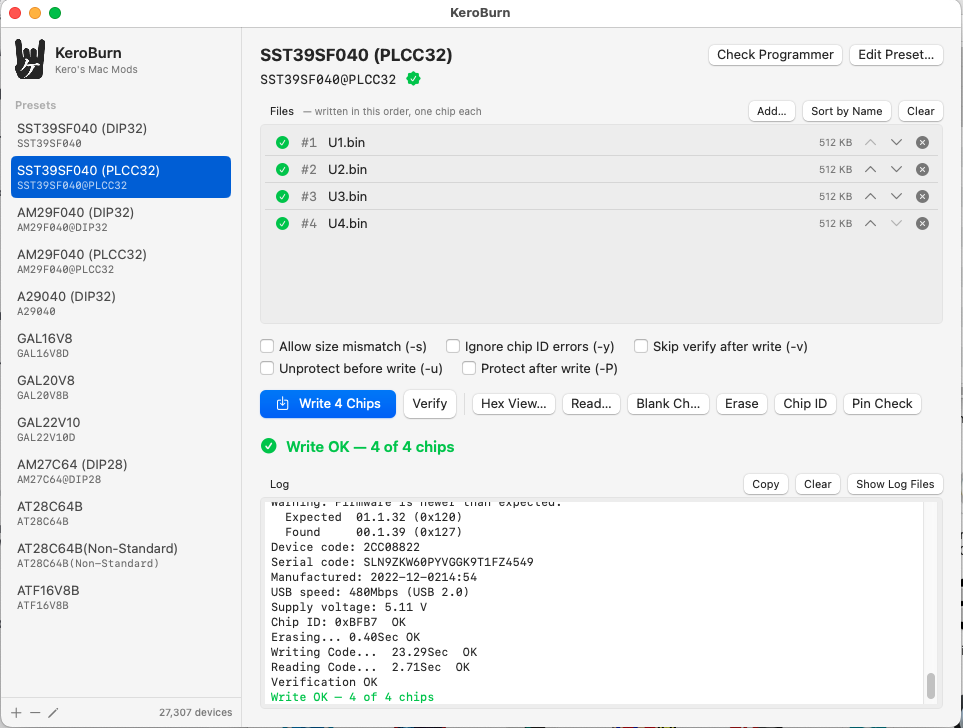
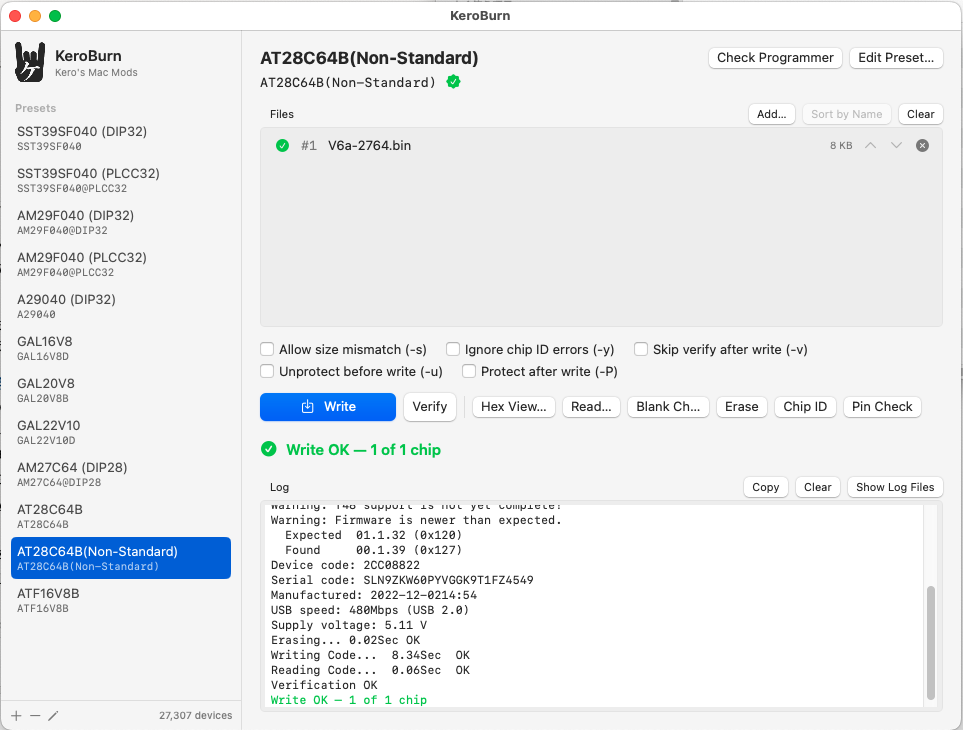
Use a new main window screenshot at the top of the README
Claude-Session: https://claude.ai/code/session_01TzK8yppmMLch9aiwp417RL

diff --git a/README.md b/README.md
@@ -4,7 +4,7 @@ A Mac front end for [minipro](https://gitlab.com/DavidGriffith/minipro), the ope
 
 I wrote it because I burn the same handful of parts over and over (SST39SF040, AM29F040, AT28C64B, GAL16V8/20V8/22V10) and got tired of looking up the exact minipro spelling every time.
 
-![KeroBurn after writing a 4-chip ROM SIMM set](docs/main-window.png)
+![KeroBurn after writing and verifying an AT28C64B](docs/main-window.png)
 
 minipro, libusb and the device database are bundled inside the app, so you don't need Homebrew or MacPorts to run it. Universal binary, runs natively on Intel and Apple Silicon. macOS 12 or later.
 
